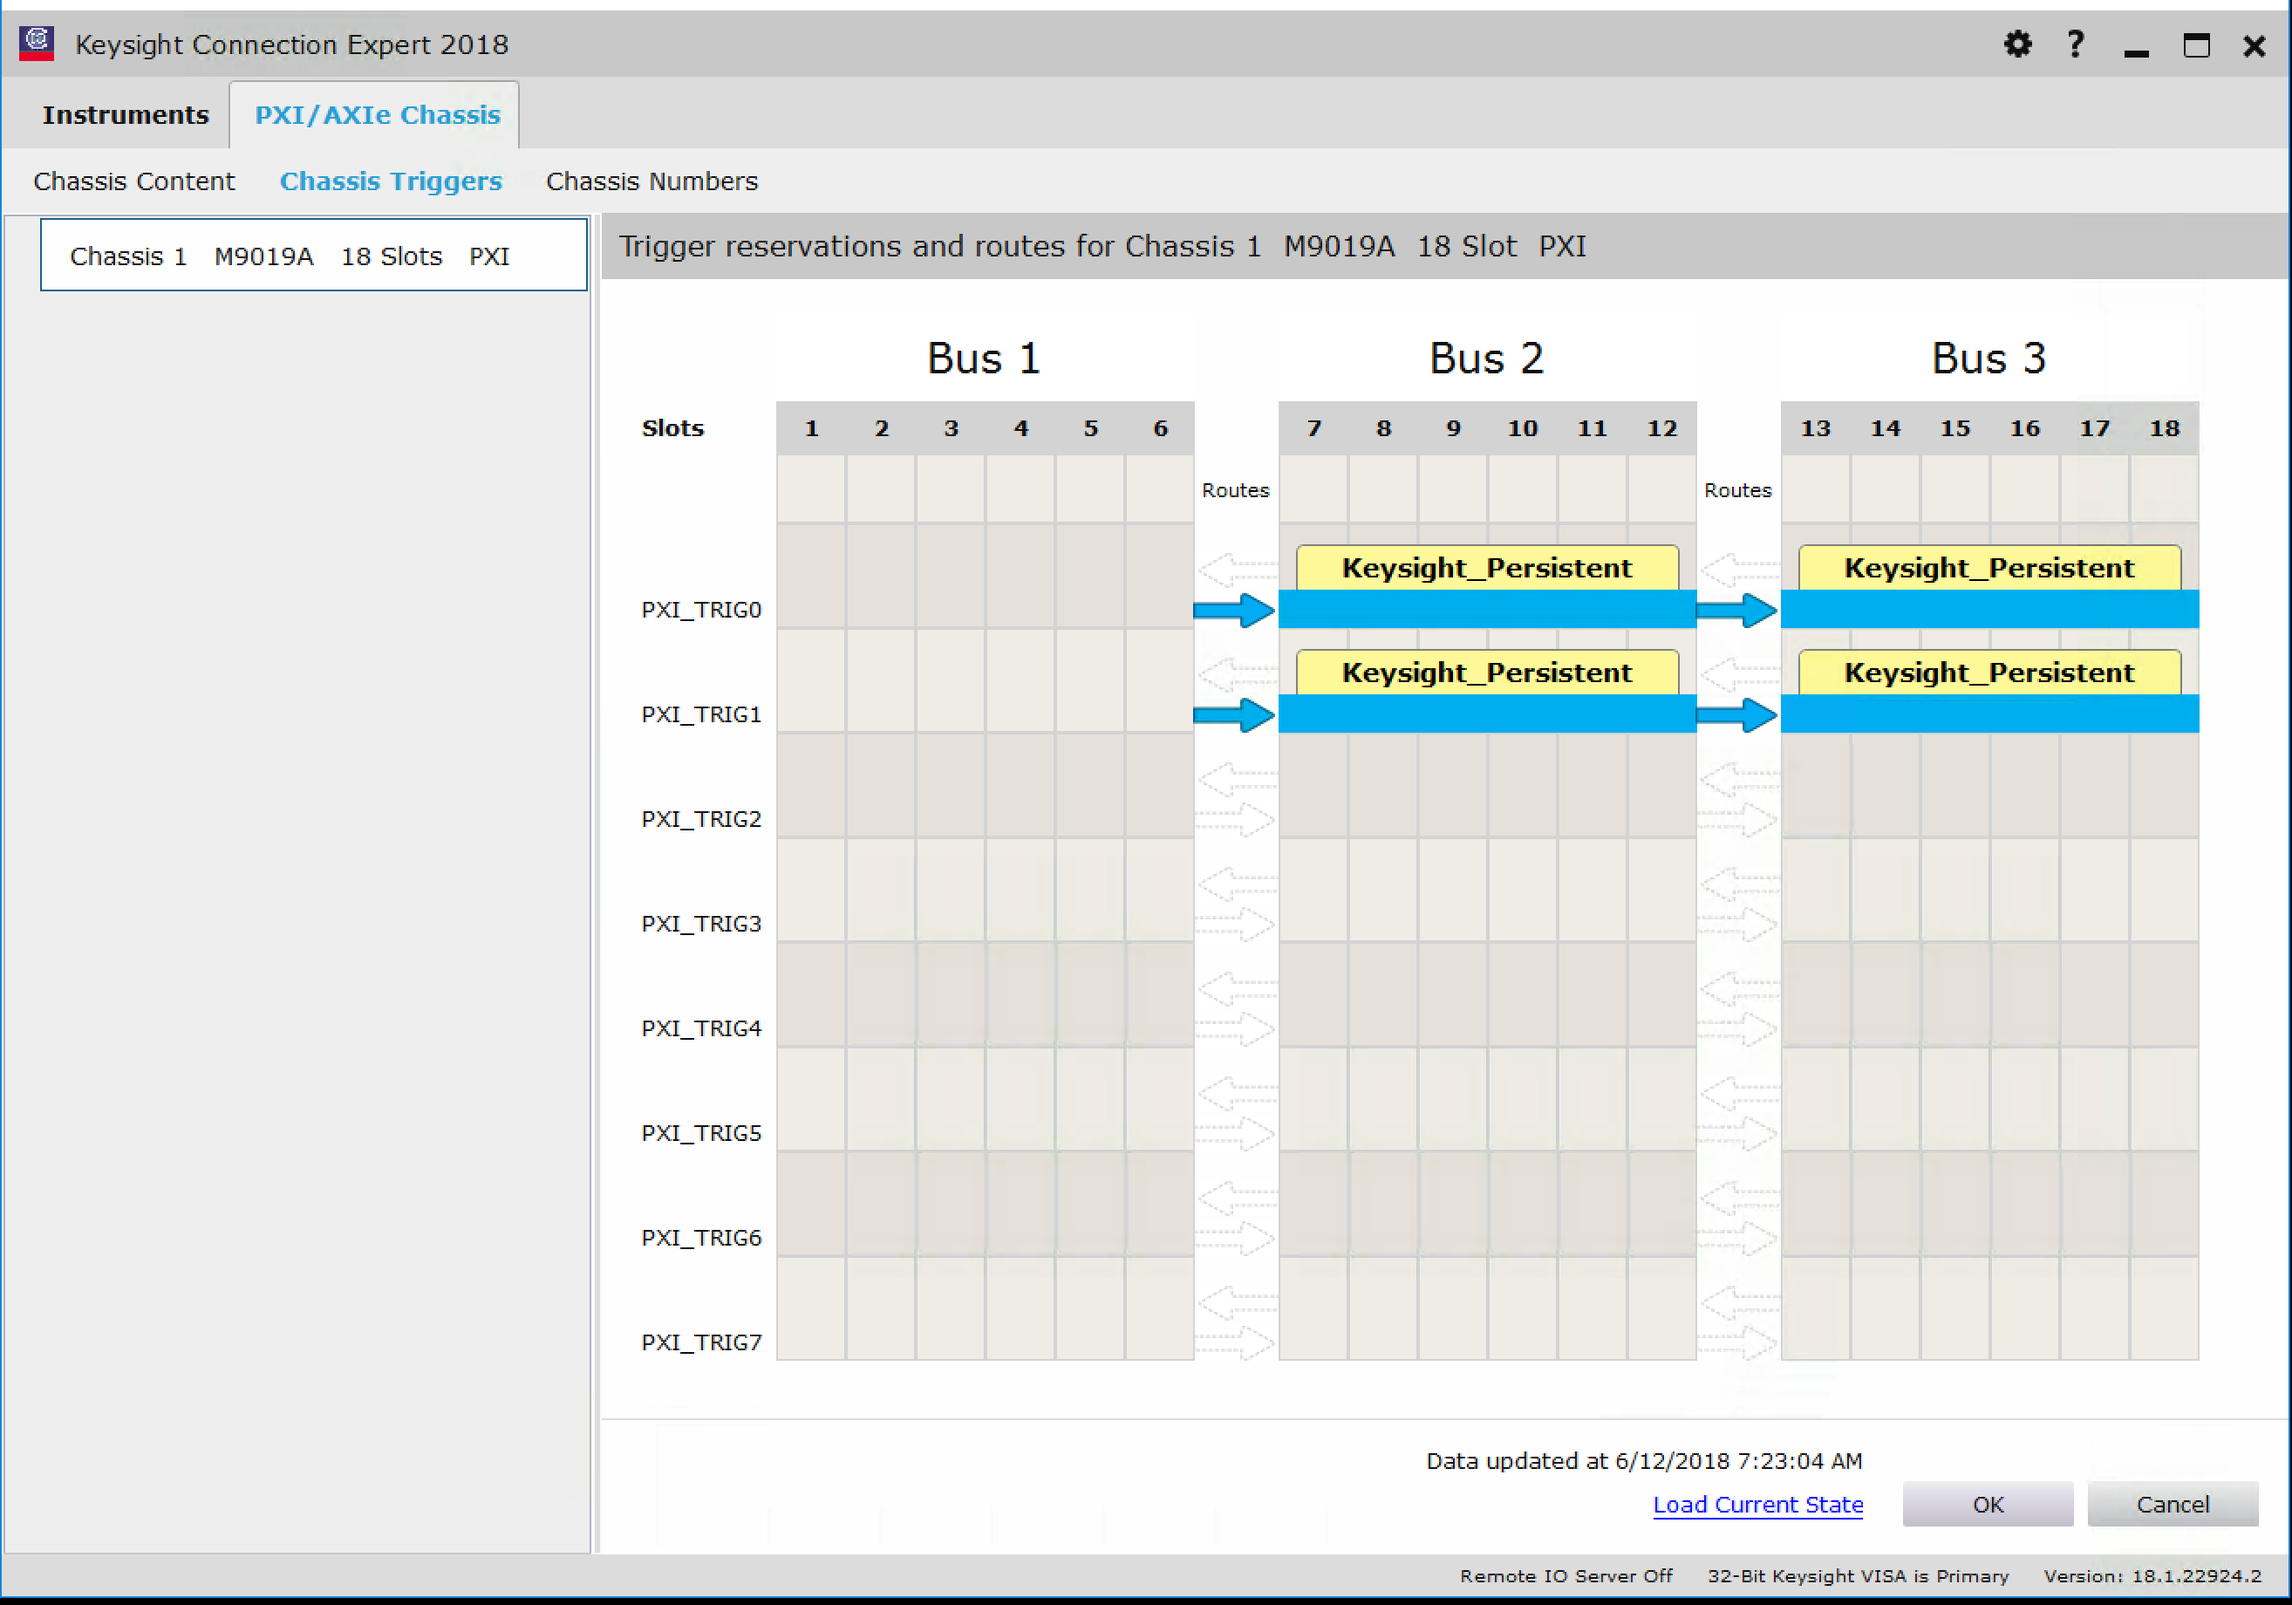
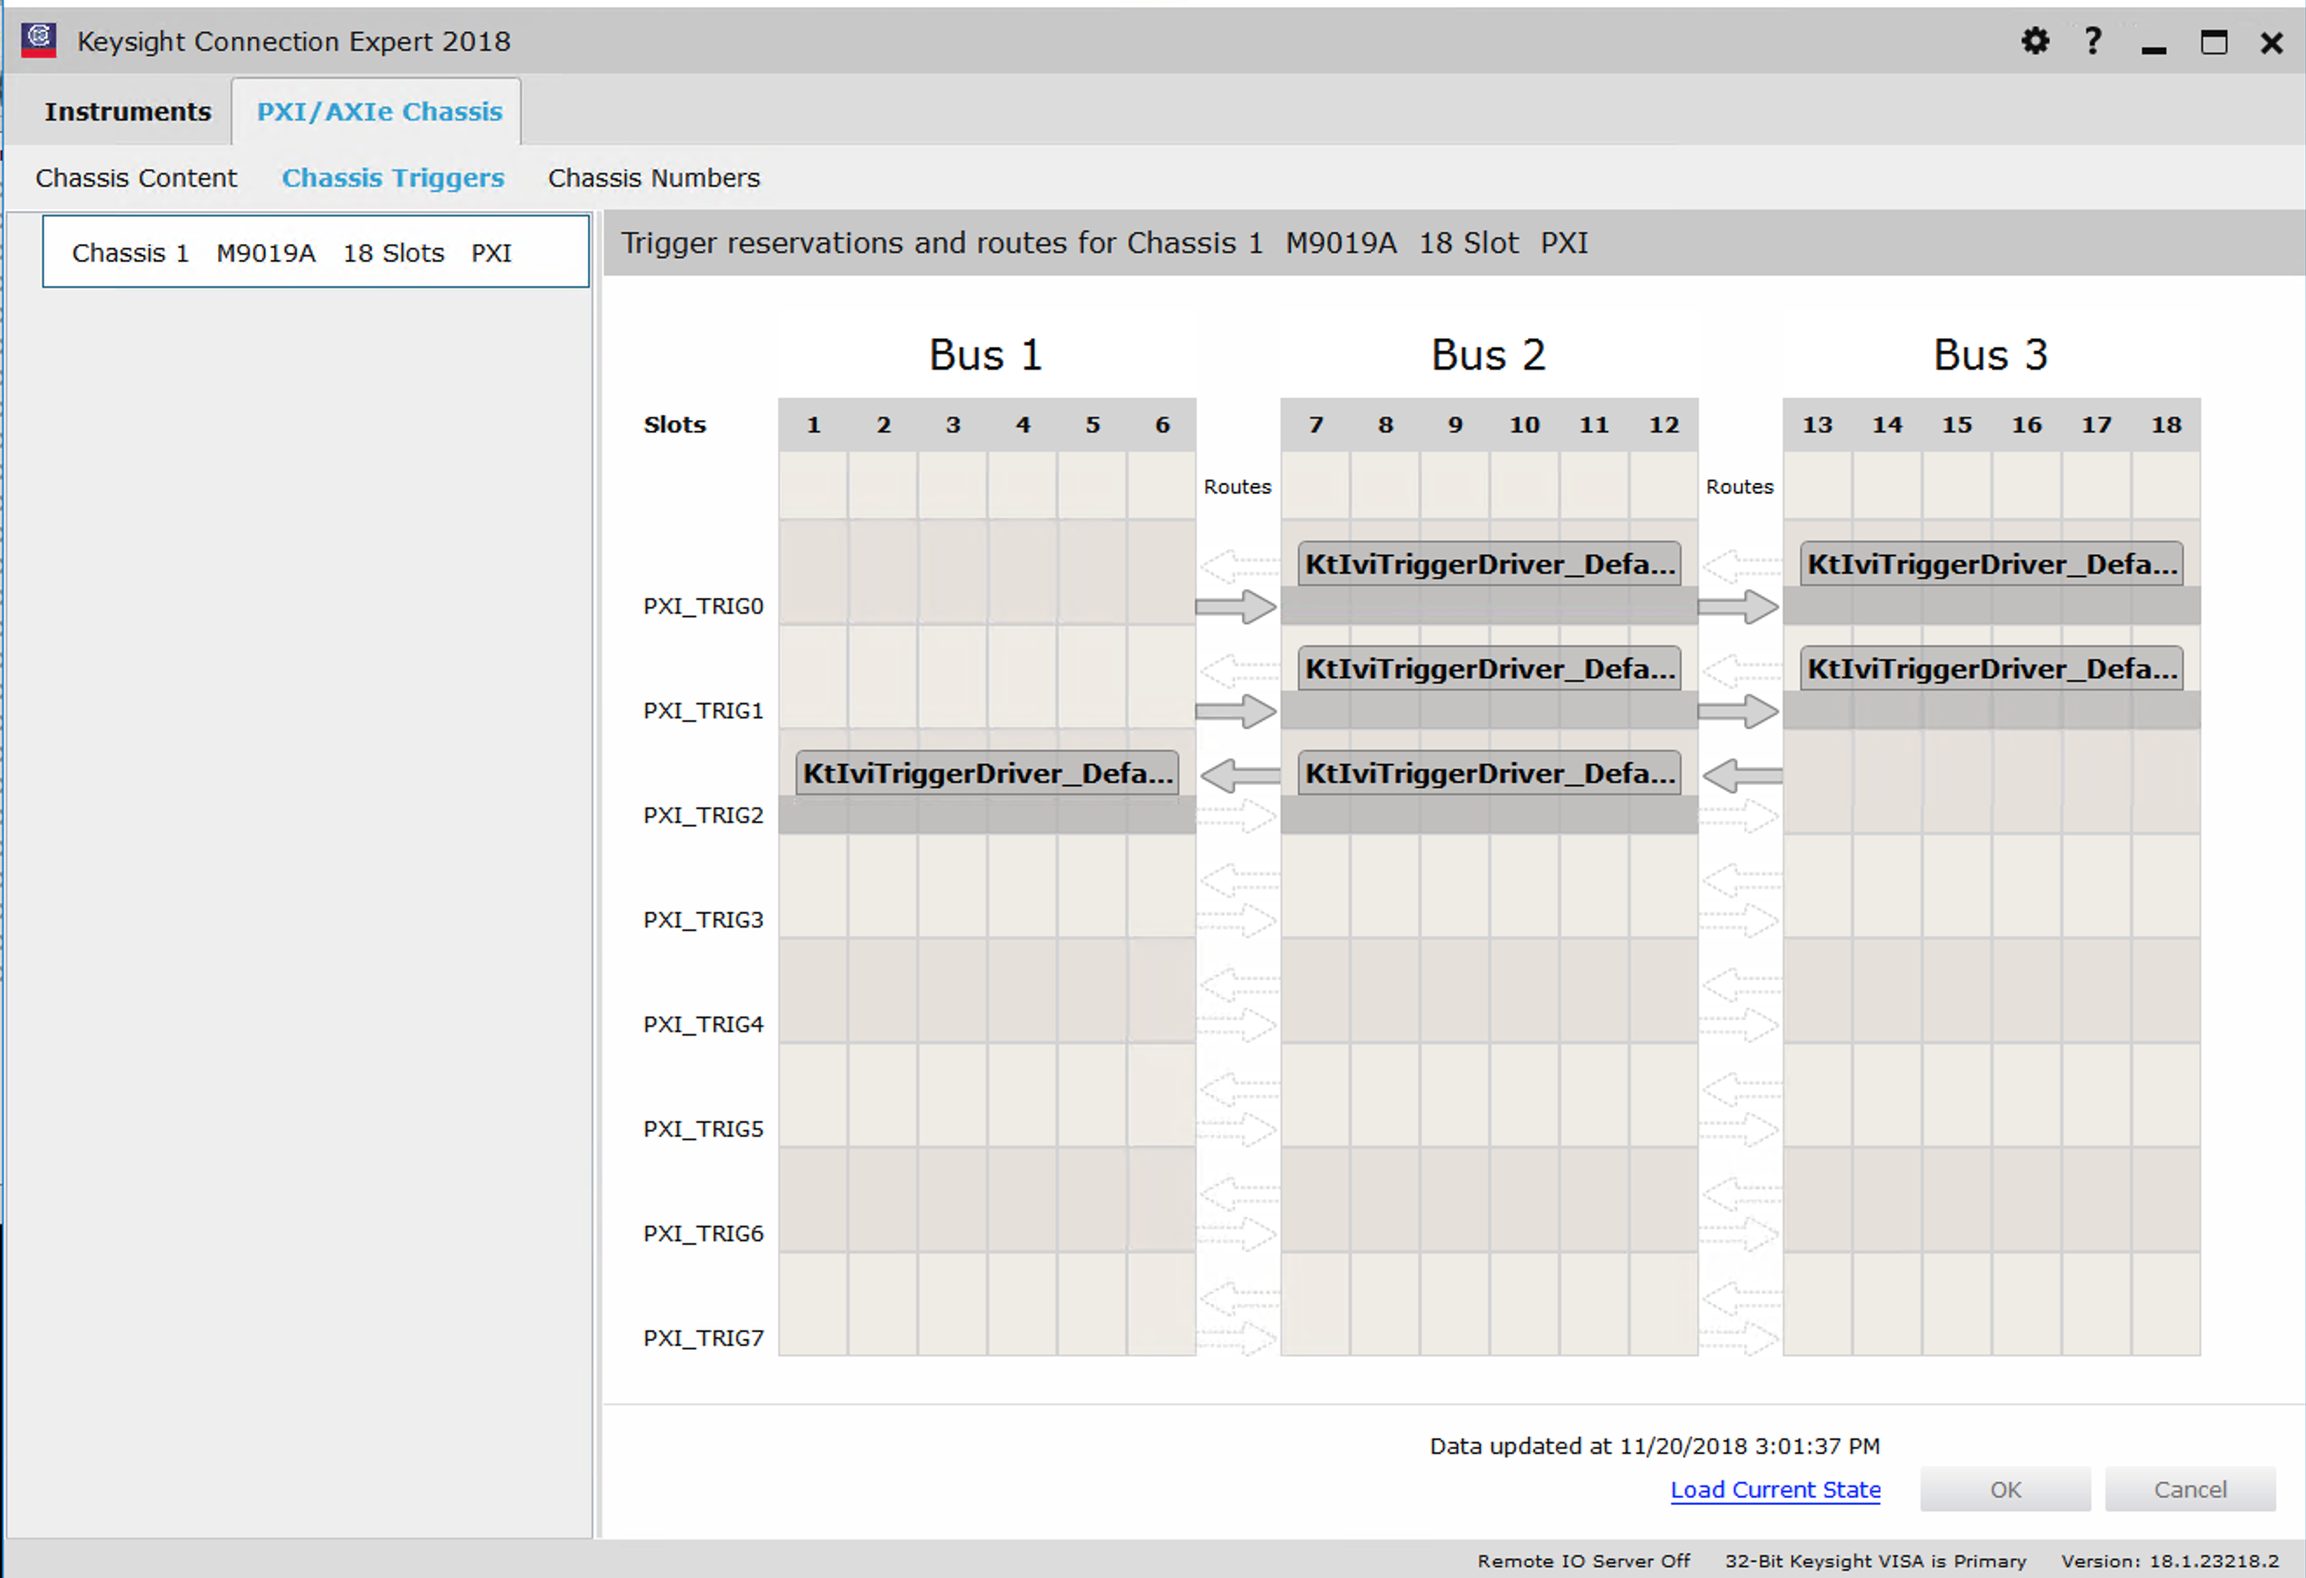
updated documentation

diff --git a/Keysight_PXI_HVI_Trigger/readme.md b/Keysight_PXI_HVI_Trigger/readme.md
@@ -8,7 +8,7 @@ The driver is compatible with Keysight PXI AWGs and digitizers *M3201, M3202, M3
 ## Configuration, PXI chassis
 The driver only works when the AWGs and digitizers are installed in a certain order in the PXI chassis.  To ensure compatibility, put the first AWG card in the first unused slot (1 or 2), and put all other AWG cards in the following empty slots (2-).  The digitizers can be installed anywhere.
 
-The driver uses two PXI backplane ports for triggering.  These ports need to be configured in the *"PXI/AXIe Chassis"*-pane of the *“Keysight Connection Expert”* program.  Please configure the ports **PXI0** and **PXI1** according to the image shown below, and make sure those two trigger ports are not being used for other purposes.
+The driver uses three PXI backplane ports for triggering.  These ports need to be configured in the *"PXI/AXIe Chassis"*-pane of the *“Keysight Connection Expert”* program.  Please configure the ports **PXI0**, **PXI1** and **PXI2** according to the image shown below, and make sure those two trigger ports are not being used for other purposes.
 
 ## Configuration, AWG and digitizers
 To trigger the AWG and the digitizers, select **"Software / HVI"** as the trig source for the individual units.  The *Keysight PXI HVI Trigger* driver will ensure that the triggers appear syncrounously on all instruments.
